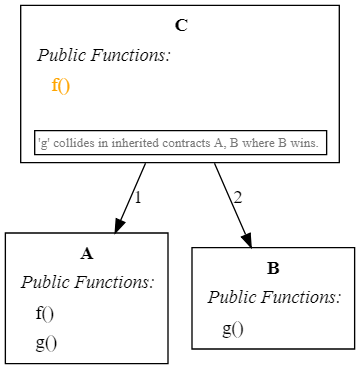
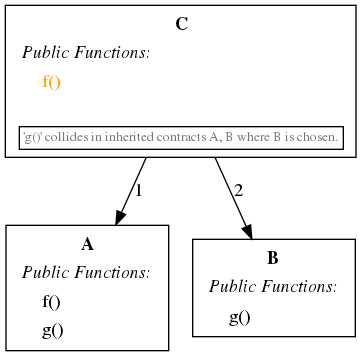
Improve inheritance graph printed message

diff --git a/slither/printers/inheritance/inheritance_graph.py b/slither/printers/inheritance/inheritance_graph.py
@@ -94,7 +94,7 @@ class PrinterInheritanceGraph(AbstractPrinter):
                 winner = collision_set[-1][1].contract.name
                 collision_steps = [colliding_function.contract.name for _, colliding_function in collision_set]
                 collision_steps = ', '.join(collision_steps)
-                result.append(f"'{collision_set[0][1].name}' collides in inherited contracts {collision_steps} where {winner} wins.")
+                result.append(f"'{collision_set[0][1].full_name}' collides in inherited contracts {collision_steps} where {winner} is chosen.")
         return '\n'.join(result)
 
     def _get_port_id(self, var, contract):
